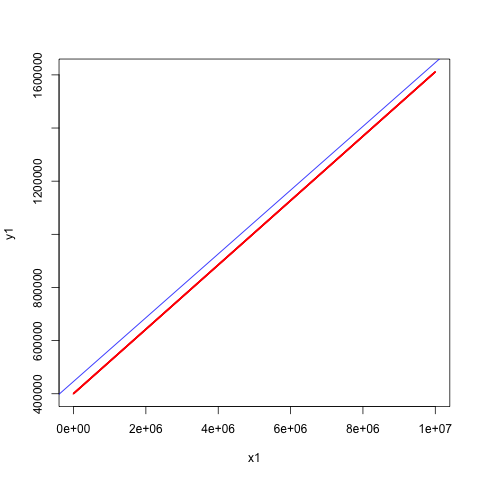
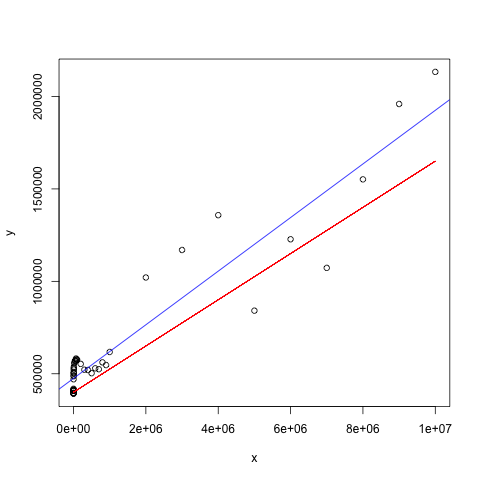
Updates.

diff --git a/tests/bulk_estimations.rs b/tests/bulk_estimations.rs
@@ -1,21 +1,24 @@
 const LENGTHS: &[usize] = &[
-  1, 2, 5, 10, 20, 50, 100, 200, 500, 1000, 2000, 5000, 10000, 20000, 50000, 100000, 200000, 500000, 1000000, 2000000, 5000000, 10000000,
+  1, 2, 5, 10, 20, 50, 100, 200, 300, 400, 500, 600, 700, 800, 900, 1000, 2000, 3000, 4000, 5000, 6000, 7000, 8000, 9000, 10000, 20000, 30000, 40000, 50000, 60000, 70000, 80000,
+  90000, 100000, 200000, 300000, 400000, 500000, 600000, 700000, 800000, 900000, 1000000, 2000000, 3000000, 4000000, 5000000, 6000000, 7000000, 8000000, 9000000, 10000000,
 ];
 
 const GAS: &[usize] = &[
-  389040, 390110, 391360, 390700, 390100, 394810, 420260, 407550, 407230, 410180, 460790, 517060, 517930, 539100, 555260, 559370, 539500, 462760, 600480, 947310, 559620, 1832900,
+  392240, 394160, 415000, 396940, 392810, 396080, 418660, 413370, 409130, 408370, 409100, 409660, 409820, 409580, 409120, 409270, 470160, 490180, 486830, 502990, 503400, 509970,
+  522660, 529340, 536820, 556270, 561470, 570160, 568800, 572380, 582780, 577060, 577240, 575540, 553270, 521970, 520360, 503140, 529460, 524800, 561770, 547090, 617960, 1020800,
+  1169600, 1358000, 841350, 1227600, 1072800, 1551700, 1959300, 2132900,
 ];
 
 const BASE: usize = 400000;
-const UNIT_COST: usize = 2048;
-const UNIT_SIZE: usize = 248;
+const UNIT_SIZE: usize = 1024;
+const UNIT_COST: usize = 144;
 
 fn estimated(length: usize) -> usize {
   BASE + length.div_ceil(UNIT_SIZE) * UNIT_COST
 }
 
 fn regression(length: usize) -> usize {
-  ((length as f64 * 1.200047e-01) + 4.462121e+05).round() as usize
+  ((length as f64 * 1.450275e-01) + 4.749930e+0).round() as usize
 }
 
 #[test]
@@ -29,8 +32,13 @@ fn a() {
     let gas_estimated_diff = gas_estimated as isize - gas_measured as isize;
     let gas_estimated_diff_perc = (gas_estimated_diff as f64 / gas_measured as f64) * 100.0;
     println!(
-      "{:12} {:12} {:12} {:12} [{:5.1}] {:12} [{:5.1}]",
-      gas_measured, gas_regression, gas_estimated, gas_regression_diff, gas_regression_diff_perc, gas_estimated_diff, gas_estimated_diff_perc
+      "{:12} {:12} {:12} {:12} {:12} [{:5.1}] {:12} [{:5.1}]",
+      length, gas_measured, gas_regression, gas_estimated, gas_regression_diff, gas_regression_diff_perc, gas_estimated_diff, gas_estimated_diff_perc
     );
   }
+}
+
+#[test]
+fn b() {
+  println!("{}", estimated(10000000));
 }